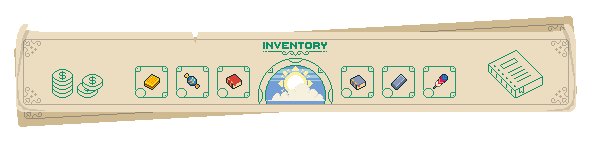
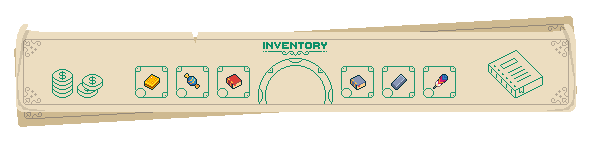
added back the weather
replaced original weather photos with others to fit in inventory section

Changed region(s): [[0.4257, 0.4444, 0.5473, 0.7222]]

diff --git a/src/main.js b/src/main.js
@@ -465,32 +465,32 @@ startButton.addEventListener('click', ()=>{
 // })
 
 // ------------ Weather Animation ----------------
-// const weather = document.getElementById('weather');
-//   const weatherSrcs = [
-//     '/day/1.png',
-//     '/day/2.png',
-//     '/day/3.png',
-//     '/day/4.png',
-//     '/day/5.png',
-//     '/day/6.png',
-//     '/day/7.png',
-//     '/day/8.png',
-//     '/day/9.png',
-//     '/day/10.png',
-//   ]
+const weather = document.getElementById('weather');
+  const weatherSrcs = [
+    '/day/1.png',
+    '/day/2.png',
+    '/day/3.png',
+    '/day/4.png',
+    '/day/5.png',
+    '/day/6.png',
+    '/day/7.png',
+    '/day/8.png',
+    '/day/9.png',
+    '/day/10.png',
+  ]
 
-//   weatherSrcs.forEach((src, index)=>{
-//       setTimeout(()=>{
-//         weather.src = src
-//       }, Number(index + '000') / 6)
-//     })
-//   setInterval(()=>{
-//     weatherSrcs.forEach((src, index)=>{
-//       setTimeout(()=>{
-//         weather.src = src
-//       }, Number(index + '000') / 6)
-//     })
-//   }, 2000);
+  weatherSrcs.forEach((src, index)=>{
+      setTimeout(()=>{
+        weather.src = src
+      }, Number(index + '000') / 6)
+    })
+  setInterval(()=>{
+    weatherSrcs.forEach((src, index)=>{
+      setTimeout(()=>{
+        weather.src = src
+      }, Number(index + '000') / 6)
+    })
+  }, 2000);
 
 // ------------ Inventory Buttons ----------------
 const resumeButton = document.getElementById('resumeButton');

diff --git a/index.html b/index.html
@@ -37,9 +37,6 @@
     <section id="app" aria-hidden="true">
       <div id="ui">
         <div id="HUD" class="player-hud">
-          <!-- <div>
-            <img id="weather" src="/day/1.png" alt="weather image">
-          </div> -->
         </div>
         <!-- <div class="controls">
           <p class="note"> Tap/Click to move around</p>
@@ -51,6 +48,7 @@
         <div class="inventory-container">
           <img class="inventory" src="/inventory.png" alt="Inventory menu">
           <div class="button-container">
+            <img id="weather" src="/day/1.png" alt="weather image">
             <button id="resumeButton" class="inventory-buttons" aria-label="highlight box for item"></button>
             <button id="candyButton" class="inventory-buttons" aria-label="highlight box for item"></button>
             <button id="tabletButton" class="inventory-buttons" aria-label="highlight box for item"></button>

diff --git a/global.css b/global.css
@@ -132,6 +132,7 @@ body {
   align-items: flex-start;
   word-spacing: 0.2rem;
   filter: drop-shadow(0 0 0.75rem rgb(112,112,112));
+  z-index: 30;
 }
 #textbox .bl {
   position: absolute;
@@ -197,9 +198,12 @@ body {
   margin: 0;
 }
 #weather {
-  margin-left: 50px;
-  width: 96px;
-  height: 96px;
+  position: absolute;
+  top: 77px;
+  z-index: 20;
+  width: 163px;
+  height: 163px;
+  left: 417px;
   -webkit-user-drag: none;
 }
 .controls {
